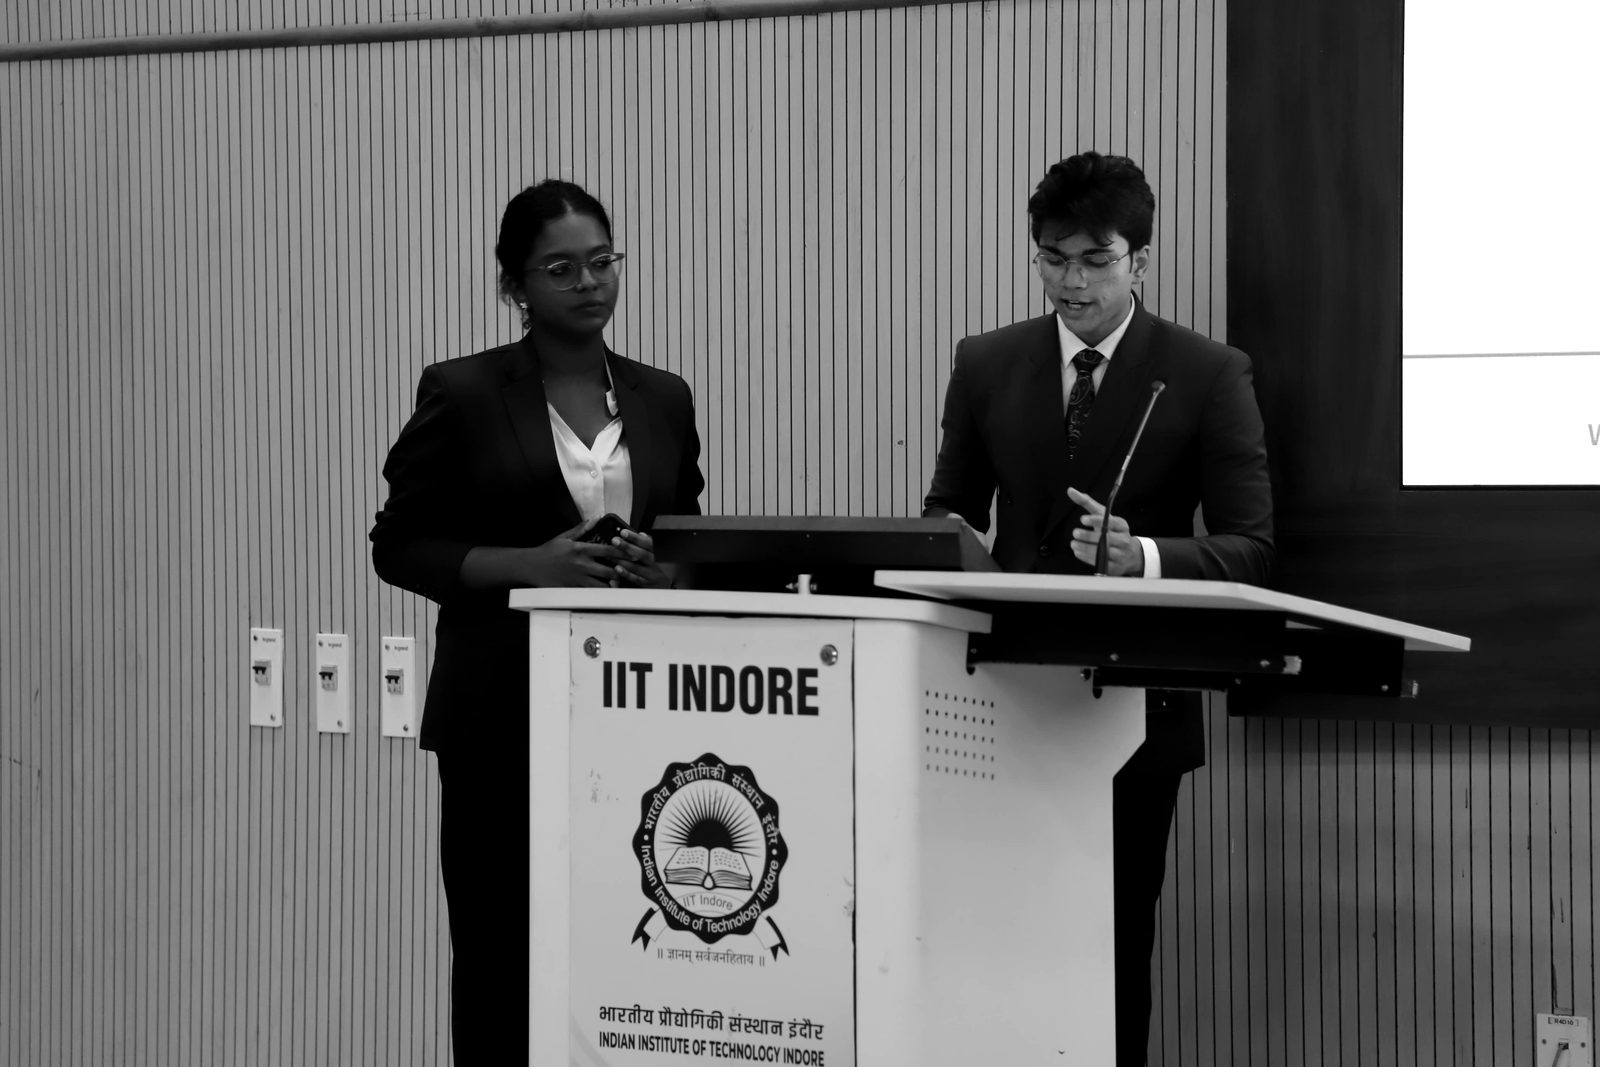
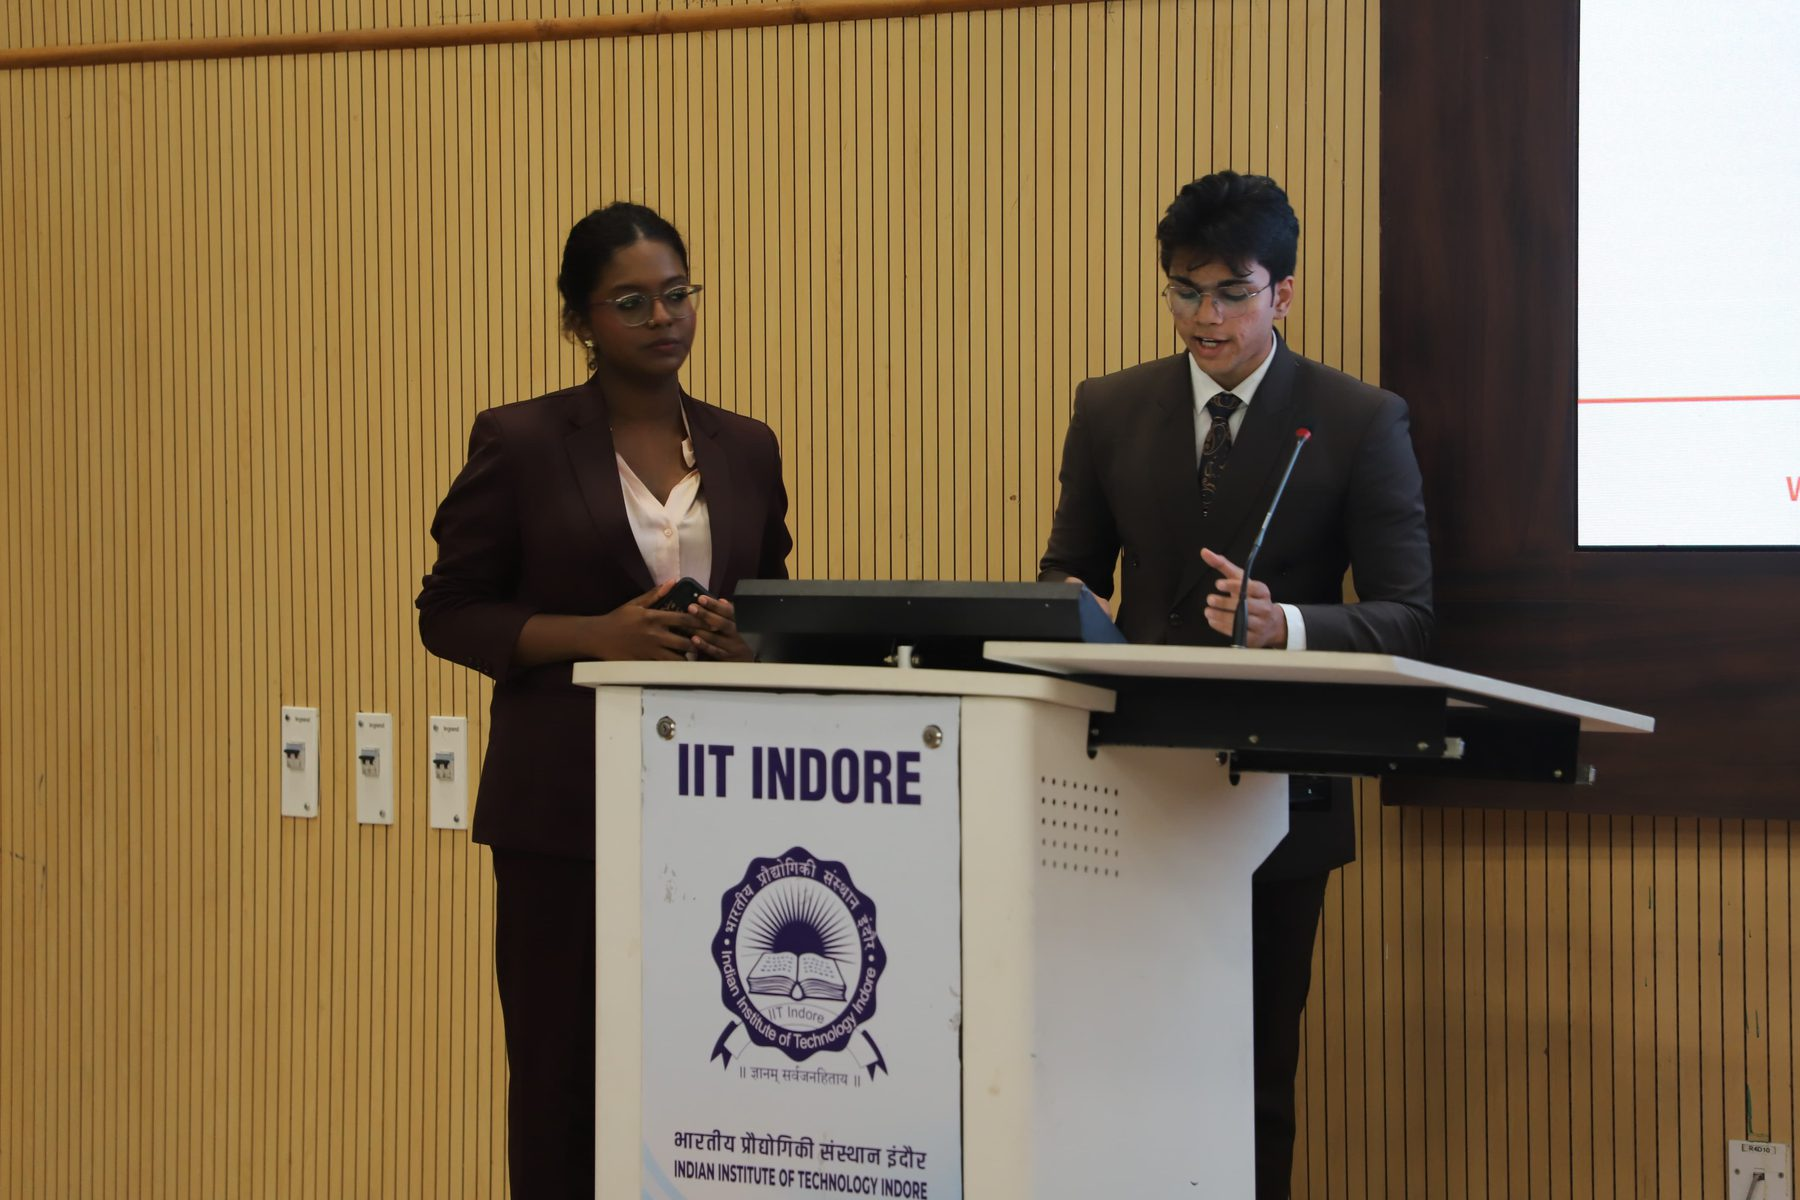
Case Work photos: only what is in the source folder, in colour
Source set
  The Photos folder now holds three images, not the nine it had when this was
  first built. Two of the four the pipeline referenced had been deleted, and
  the site was serving stale generated copies of files that no longer exist.
  The list now matches what is actually there:

    IIT Indore · Presenting to the panel · Open to questions

  Kept as an explicit list rather than a directory sweep, so removing a photo
  from the source removes it from the site.

Colour
  Dropped the monochrome conversion for these three.

Redaction — please read
  The stage photograph shows the closing slide, which prints both teammates'
  institute email addresses: once beneath each portrait and again in the
  footer. At 4160px they are entirely legible, and in colour more so.

  Harsh's own address is already public on his CV. Mayuri Jalin's is not his
  to publish, and an address that gets scraped cannot be recalled. Those two
  bands are now blurred before publishing; names, portraits and the rest of
  the slide are untouched. Defined in REDACTIONS in scripts/img.py as
  fractional coordinates, so it survives any resize and is one edit to undo.

Strip layout
  Three wider frames rather than four, and the parallax travel is clamped at
  zero — with few enough photos the strip is narrower than the viewport, and a
  negative distance would have drifted it rightwards off screen.

Note for deploys
  Next's image optimiser caches on path, not contents. Replacing an image at
[…]

diff --git a/src/components/Competitions.tsx b/src/components/Competitions.tsx
@@ -30,7 +30,10 @@ export default function Competitions() {
         strip,
         { x: 0 },
         {
-          x: () => -(strip.scrollWidth - window.innerWidth * 0.92),
+          // Never negative: with few enough photos the strip is narrower than
+          // the viewport, and a negative distance would drift it rightwards
+          // off the screen instead of holding still.
+          x: () => -Math.max(0, strip.scrollWidth - window.innerWidth * 0.92),
           ease: "none",
           scrollTrigger: {
             trigger: strip.parentElement,
@@ -134,13 +137,13 @@ export default function Competitions() {
       <div className="bleed mt-24 overflow-hidden lg:mt-32">
         <div className="photo-strip flex w-max gap-4">
           {competitions.photos.map((p) => (
-            <figure key={p.src} className="relative w-[68vw] shrink-0 sm:w-[42vw] lg:w-[30vw]">
+            <figure key={p.src} className="relative w-[78vw] shrink-0 sm:w-[52vw] lg:w-[40vw]">
               <div className="relative aspect-[4/3] overflow-hidden bg-bg-raised">
                 <Image
                   src={p.src}
                   alt={p.caption}
                   fill
-                  sizes="(max-width: 640px) 68vw, (max-width: 1024px) 42vw, 30vw"
+                  sizes="(max-width: 640px) 78vw, (max-width: 1024px) 52vw, 40vw"
                   className="object-cover"
                 />
               </div>

diff --git a/src/data/content.ts b/src/data/content.ts
@@ -139,8 +139,7 @@ export const competitions = {
   photos: [
     { src: "/img/photos/event-1.jpg", caption: "IIT Indore" },
     { src: "/img/photos/event-2.jpg", caption: "Presenting to the panel" },
-    { src: "/img/photos/event-3.jpg", caption: "On stage" },
-    { src: "/img/photos/event-4.jpg", caption: "Case materials" },
+    { src: "/img/photos/event-3.jpg", caption: "Open to questions" },
   ],
 } as const;
 

diff --git a/scripts/img.py b/scripts/img.py
@@ -60,17 +60,10 @@ def portrait(src, out_dir):
     print("   portrait-colour-1600.jpg")
 
 
-# Curated, in display order. The source folder also holds a tighter crop of the
-# venue shot and two weaker frames; these are the ones worth showing. Chosen by
-# hand rather than by heuristic — they are how Harsh is presented publicly.
-EVENT_PHOTOS = [
-    ("WhatsApp Image 2025-09-04 at 09.10.20.jpeg", "Arriving at IIT Indore"),
-    ("WhatsApp Image 2025-09-10 at 11.03.12 (1).jpeg", "Presenting to the panel"),
-    ("WhatsApp Image 2025-09-10 at 11.03.11.jpeg", "On stage"),
-    ("WhatsApp Image 2025-09-04 at 09.10.27.jpeg", "Case materials"),
-]
-
-
+# The three photographs currently in the source folder, in display order.
+# Kept as an explicit list rather than a directory sweep so that removing a
+# photo from the source removes it from the site, and nothing stale is served
+# from a previous run.
 def background(src, out_dir):
     """Hero background plate.
 
@@ -89,6 +82,42 @@ def background(src, out_dir):
     print("   bg-hero-2400.jpg")
 
 
+EVENT_PHOTOS = [
+    ("WhatsApp-Image-2025-09-04-at-09.10.20.png", "IIT Indore"),
+    ("WhatsApp Image 2025-09-10 at 11.03.12 (1).jpeg", "Presenting to the panel"),
+    ("WhatsApp Image 2025-09-10 at 11.03.11.jpeg", "Open to questions"),
+]
+
+# Regions blurred before publishing, keyed by source filename, as fractions of
+# width/height so they survive any resize.
+#
+# The stage photograph shows the closing slide, which prints both teammates'
+# institute email addresses — once under each portrait and again in the footer.
+# At 4160px wide they are perfectly legible. Harsh's own address is already
+# public on his CV; Mayuri Jalin's is not his to publish, and a scraped address
+# cannot be recalled. Blur the text, keep the photograph.
+REDACTIONS = {
+    "WhatsApp Image 2025-09-10 at 11.03.11.jpeg": [
+        (0.512, 0.460, 0.801, 0.491),   # both addresses beneath the portraits
+        (0.541, 0.541, 0.769, 0.570),   # the footer line
+    ],
+}
+
+
+def _redact(im, regions):
+    """Blur the given fractional regions beyond recovery."""
+    from PIL import ImageFilter
+
+    w, h = im.size
+    for x0, y0, x1, y1 in regions:
+        box = (int(x0 * w), int(y0 * h), int(x1 * w), int(y1 * h))
+        patch = im.crop(box)
+        # Radius scales with region size so the result is unreadable at any width.
+        radius = max(6, (box[2] - box[0]) // 22)
+        im.paste(patch.filter(ImageFilter.GaussianBlur(radius)), box)
+    return im
+
+
 def photos(src_dir, out_dir):
     for i, (name, _caption) in enumerate(EVENT_PHOTOS, 1):
         p = os.path.join(src_dir, name)
@@ -96,7 +125,11 @@ def photos(src_dir, out_dir):
             print(f"   !! missing: {name}", file=sys.stderr)
             continue
         im = Image.open(p).convert("RGB")
-        _save(_mono(_fit(im, 1600)), os.path.join(out_dir, f"event-{i}.jpg"))
+        if name in REDACTIONS:
+            im = _redact(im, REDACTIONS[name])
+            print(f"   (redacted {len(REDACTIONS[name])} region(s) in {name})")
+        # Colour, not monochrome.
+        _save(_fit(im, 1800), os.path.join(out_dir, f"event-{i}.jpg"))
         print(f"   event-{i}.jpg  <- {name}")
 
 
